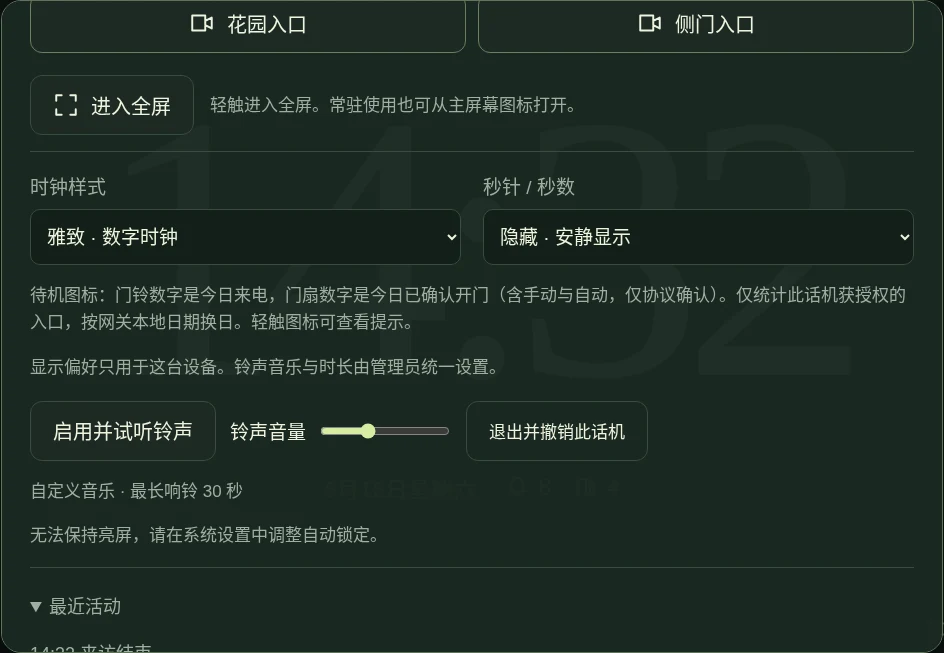
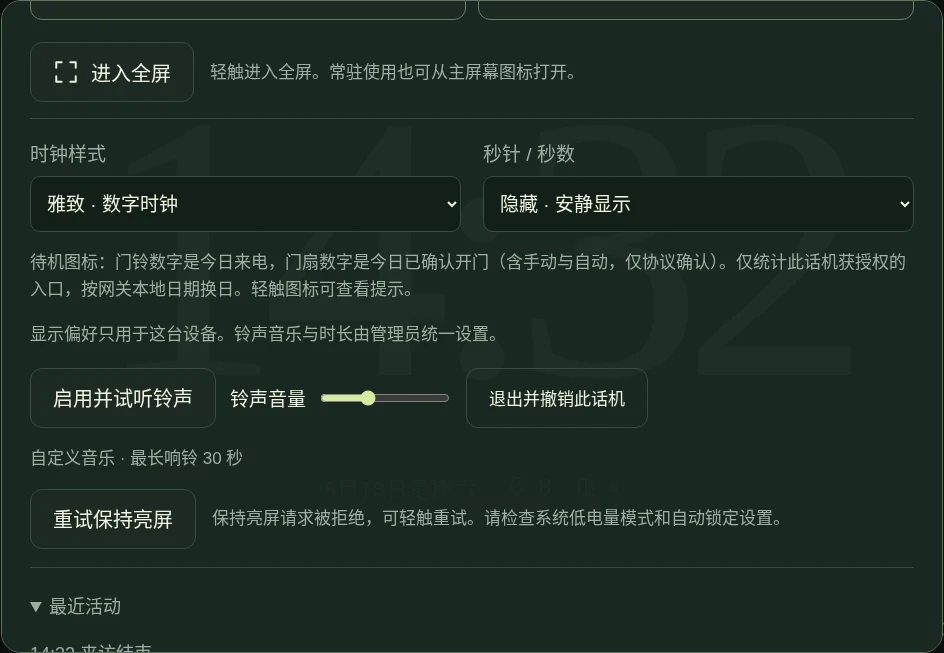
Fix independent foreground phone wake lock lifecycle

diff --git a/docs/demo/index.html b/docs/demo/index.html
@@ -2,6 +2,6 @@
 <html lang="zh-CN"><meta charset="utf-8"><meta name="viewport" content="width=device-width, initial-scale=1">
 <title>Fermax Lynx · 界面图集</title><style>
 :root{color-scheme:dark;font-family:system-ui,sans-serif;background:#101d1c;color:#eceee6}*{box-sizing:border-box}body{margin:0}header{padding:28px 32px;border-bottom:1px solid #42534d}h1{font-size:32px;margin:0 0 12px}p{line-height:1.65;color:#b5c2b9}main{display:grid;grid-template-columns:280px minmax(0,1fr)}nav{padding:20px;display:grid;gap:8px;align-content:start;max-height:calc(100vh - 170px);overflow:auto;position:sticky;top:0}button{font:inherit;font-size:16px;text-align:left;color:inherit;border:1px solid #41514c;background:transparent;border-radius:8px;padding:12px;min-height:48px;cursor:pointer}button[aria-pressed=true]{background:#dbe9cd;color:#17231d}button:focus-visible,a:focus-visible{outline:3px solid #ebc777;outline-offset:3px}section{padding:24px;min-width:0}figure{margin:0}figure[hidden]{display:none}h2{margin:0;font-size:25px}img{display:block;max-width:100%;max-height:78vh;height:auto;width:auto;margin:20px auto;border:1px solid #41514c;border-radius:12px}a{color:#dbe9cd}@media(max-width:720px){main{display:block}nav{position:static;max-height:230px;grid-template-columns:repeat(2,minmax(0,1fr))}header,section{padding:20px}h1{font-size:27px}}
-</style><header><h1>Fermax Lynx · 界面图集</h1><p>这些 v0.6.2 预览由真实界面自动截图生成。住户、入口、视频与音频均为合成示例；Screenshots show version 0.6.2 using synthetic data.</p></header><main><nav aria-label="选择界面"><button type="button" data-index="0" aria-pressed="true">铃声提醒 · Sound attention</button><button type="button" data-index="1" aria-pressed="false">安静待机 · Quiet standby</button><button type="button" data-index="2" aria-pressed="false">连接异常 · Connection notice</button><button type="button" data-index="3" aria-pressed="false">今日活动 · Daily activity</button><button type="button" data-index="4" aria-pressed="false">待机统计 · Quiet activity</button><button type="button" data-index="5" aria-pressed="false">实体首页统计 · LCD daily activity</button><button type="button" data-index="6" aria-pressed="false">网关独立响铃 · Gateway sound</button><button type="button" data-index="7" aria-pressed="false">首选设备失联 · Missing output</button><button type="button" data-index="8" aria-pressed="false">实体屏幕设置 · LCD settings</button><button type="button" data-index="9" aria-pressed="false">实体屏幕声音 · LCD sound</button><button type="button" data-index="10" aria-pressed="false">实体输出选择 · LCD outputs</button><button type="button" data-index="11" aria-pressed="false">书页时钟 · Editorial</button><button type="button" data-index="12" aria-pressed="false">数字时钟 · Digital</button><button type="button" data-index="13" aria-pressed="false">模拟时钟 · Analog</button><button type="button" data-index="14" aria-pressed="false">电子管时钟 · Nixie</button><button type="button" data-index="15" aria-pressed="false">无秒显示 · Hidden seconds</button><button type="button" data-index="16" aria-pressed="false">话机授权 · Enrollment</button><button type="button" data-index="17" aria-pressed="false">话机偏好 · Preferences</button><button type="button" data-index="18" aria-pressed="false">最近活动 · Recent activity</button><button type="button" data-index="19" aria-pressed="false">入口预览 · Preview</button><button type="button" data-index="20" aria-pressed="false">来访画面 · Incoming visit</button><button type="button" data-index="21" aria-pressed="false">响铃结束 · Ring window ended</button><button type="button" data-index="22" aria-pressed="false">本次静音 · Muted visit</button><button type="button" data-index="23" aria-pressed="false">竖屏平板 · Portrait tablet</button><button type="button" data-index="24" aria-pressed="false">手机竖屏 · Narrow screen</button><button type="button" data-index="25" aria-pressed="false">手机横屏 · Short landscape</button><button type="button" data-index="26" aria-pressed="false">画面过期 · Stale frame</button><button type="button" data-index="27" aria-pressed="false">连接中断 · Offline</button><button type="button" data-index="28" aria-pressed="false">授权撤销 · Revoked</button><button type="button" data-index="29" aria-pressed="false">限时自动开门 · Timed policy</button><button type="button" data-index="30" aria-pressed="false">无时限自动开门 · Unlimited policy</button><button type="button" data-index="31" aria-pressed="false">管理页失联 · Unknown policy state</button><button type="button" data-index="32" aria-pressed="false">放大管理页 · 200% layout</button><button type="button" data-index="33" aria-pressed="false">设置导航 · Settings navigation</button><button type="button" data-index="34" aria-pressed="false">16 首铃声 · Ringtone library</button><button type="button" data-index="35" aria-pressed="false">管理员登录 · Sign in</button><button type="button" data-index="36" aria-pressed="false">管理首页 · Dashboard</button><button type="button" data-index="37" aria-pressed="false">内置铃声 · Built-in melodies</button><button type="button" data-index="38" aria-pressed="false">自定义音乐 · Custom music</button><button type="button" data-index="39" aria-pressed="false">网关配置 · Configuration</button><button type="button" data-index="40" aria-pressed="false">密码设置 · Password</button><button type="button" data-index="41" aria-pressed="false">事件日志 · Journal</button><button type="button" data-index="42" aria-pressed="false">设备管理 · Devices</button></nav><section aria-live="polite"><figure id="view-0"><figcaption><h2>铃声提醒 · Sound attention</h2><p>待机只在需要处理时显示声音图标，轻触进入声音设置。</p></figcaption><a href="phone-quiet-sound.webp"><img src="phone-quiet-sound.webp" alt="铃声提醒 · Sound attention" loading="lazy"></a></figure><figure id="view-1" hidden><figcaption><h2>安静待机 · Quiet standby</h2><p>中央时钟与一行辅助信息，自动开门启用时留角落提示。</p></figcaption><a href="phone-quiet-auto.webp"><img src="phone-quiet-auto.webp" alt="安静待机 · Quiet standby" loading="lazy"></a></figure><figure id="view-2" hidden><figcaption><h2>连接异常 · Connection notice</h2><p>断线显示文字提示，统计不可用，旧自动状态不冒充实时。</p></figcaption><a href="phone-quiet-offline.webp"><img src="phone-quiet-offline.webp" alt="连接异常 · Connection notice" loading="lazy"></a></figure><figure id="view-3" hidden><figcaption><h2>今日活动 · Daily activity</h2><p>来电与协议确认开门，按网关本地日期汇总。</p></figcaption><a href="admin-statistics.webp"><img src="admin-statistics.webp" alt="今日活动 · Daily activity" loading="lazy"></a></figure><figure id="view-4" hidden><figcaption><h2>待机统计 · Quiet activity</h2><p>图标与数字，轻触或聚焦显示统计口径。</p></figcaption><a href="phone-statistics.webp"><img src="phone-statistics.webp" alt="待机统计 · Quiet activity" loading="lazy"></a></figure><figure id="view-5" hidden><figcaption><h2>实体首页统计 · LCD daily activity</h2><p>保持大按钮，简明显示今日来电与确认开门。</p></figcaption><a href="lcd-home.webp"><img src="lcd-home.webp" alt="实体首页统计 · LCD daily activity" loading="lazy"></a></figure><figure id="view-6" hidden><figcaption><h2>网关独立响铃 · Gateway sound</h2><p>独立开关、音量、输出选择与明确的测试声音。</p></figcaption><a href="admin-gateway-sound.webp"><img src="admin-gateway-sound.webp" alt="网关独立响铃 · Gateway sound" loading="lazy"></a></figure><figure id="view-7" hidden><figcaption><h2>首选设备失联 · Missing output</h2><p>保留首选偏好，显示设备状态并自动降级。</p></figcaption><a href="admin-gateway-no-device.webp"><img src="admin-gateway-no-device.webp" alt="首选设备失联 · Missing output" loading="lazy"></a></figure><figure id="view-8" hidden><figcaption><h2>实体屏幕设置 · LCD settings</h2><p>声音与自动开门分别进入，保留大触控按钮。</p></figcaption><a href="lcd-settings.webp"><img src="lcd-settings.webp" alt="实体屏幕设置 · LCD settings" loading="lazy"></a></figure><figure id="view-9" hidden><figcaption><h2>实体屏幕声音 · LCD sound</h2><p>本机开关、音量、实际输出及三秒试音。</p></figcaption><a href="lcd-sound.webp"><img src="lcd-sound.webp" alt="实体屏幕声音 · LCD sound" loading="lazy"></a></figure><figure id="view-10" hidden><figcaption><h2>实体输出选择 · LCD outputs</h2><p>大按钮分页选择自动或具体设备。</p></figcaption><a href="lcd-outputs.webp"><img src="lcd-outputs.webp" alt="实体输出选择 · LCD outputs" loading="lazy"></a></figure><figure id="view-11" hidden><figcaption><h2>书页时钟 · Editorial</h2><p>舒展的衬线数字与低对比度状态。</p></figcaption><a href="clock-editorial.webp"><img src="clock-editorial.webp" alt="书页时钟 · Editorial" loading="lazy"></a></figure><figure id="view-12" hidden><figcaption><h2>数字时钟 · Digital</h2><p>醒目的数字，适合远距离查看。</p></figcaption><a href="clock-digital.webp"><img src="clock-digital.webp" alt="数字时钟 · Digital" loading="lazy"></a></figure><figure id="view-13" hidden><figcaption><h2>模拟时钟 · Analog</h2><p>刻度与指针；秒针可隐藏、跳动或平滑移动。</p></figcaption><a href="clock-analog.webp"><img src="clock-analog.webp" alt="模拟时钟 · Analog" loading="lazy"></a></figure><figure id="view-14" hidden><figcaption><h2>电子管时钟 · Nixie</h2><p>由 CSS 绘制的暖色玻璃与发光数字。</p></figcaption><a href="clock-nixie.webp"><img src="clock-nixie.webp" alt="电子管时钟 · Nixie" loading="lazy"></a></figure><figure id="view-15" hidden><figcaption><h2>无秒显示 · Hidden seconds</h2><p>隐藏秒数，让空闲界面更安静。</p></figcaption><a href="clock-nixie-quiet.webp"><img src="clock-nixie-quiet.webp" alt="无秒显示 · Hidden seconds" loading="lazy"></a></figure><figure id="view-16" hidden><figcaption><h2>话机授权 · Enrollment</h2><p>管理员选择设备名称与入口范围。</p></figcaption><a href="phone-enrollment.webp"><img src="phone-enrollment.webp" alt="话机授权 · Enrollment" loading="lazy"></a></figure><figure id="view-17" hidden><figcaption><h2>话机偏好 · Preferences</h2><p>本机时钟、秒针、音量与入口预览。</p></figcaption><a href="phone-preferences.webp"><img src="phone-preferences.webp" alt="话机偏好 · Preferences" loading="lazy"></a></figure><figure id="view-18" hidden><figcaption><h2>最近活动 · Recent activity</h2><p>展开查看最近三项活动。</p></figcaption><a href="phone-recent.webp"><img src="phone-recent.webp" alt="最近活动 · Recent activity" loading="lazy"></a></figure><figure id="view-19" hidden><figcaption><h2>入口预览 · Preview</h2><p>完整保留 4:3 画面，操作浮在画面上。</p></figcaption><a href="phone-preview.webp"><img src="phone-preview.webp" alt="入口预览 · Preview" loading="lazy"></a></figure><figure id="view-20" hidden><figcaption><h2>来访画面 · Incoming visit</h2><p>紧凑标题与大触控按钮，音乐按设定时长循环。</p></figcaption><a href="phone-incoming.webp"><img src="phone-incoming.webp" alt="来访画面 · Incoming visit" loading="lazy"></a></figure><figure id="view-21" hidden><figcaption><h2>响铃结束 · Ring window ended</h2><p>音乐停止后仍可查看画面和操作。</p></figcaption><a href="phone-ring-ended.webp"><img src="phone-ring-ended.webp" alt="响铃结束 · Ring window ended" loading="lazy"></a></figure><figure id="view-22" hidden><figcaption><h2>本次静音 · Muted visit</h2><p>只静音当前来访。</p></figcaption><a href="phone-muted.webp"><img src="phone-muted.webp" alt="本次静音 · Muted visit" loading="lazy"></a></figure><figure id="view-23" hidden><figcaption><h2>竖屏平板 · Portrait tablet</h2><p>完整画面居中，保留必要留白。</p></figcaption><a href="phone-portrait.webp"><img src="phone-portrait.webp" alt="竖屏平板 · Portrait tablet" loading="lazy"></a></figure><figure id="view-24" hidden><figcaption><h2>手机竖屏 · Narrow screen</h2><p>较窄屏幕仍保留完整画面与操作。</p></figcaption><a href="phone-mobile.webp"><img src="phone-mobile.webp" alt="手机竖屏 · Narrow screen" loading="lazy"></a></figure><figure id="view-25" hidden><figcaption><h2>手机横屏 · Short landscape</h2><p>短横屏使用紧凑的覆盖控件。</p></figcaption><a href="phone-wide.webp"><img src="phone-wide.webp" alt="手机横屏 · Short landscape" loading="lazy"></a></figure><figure id="view-26" hidden><figcaption><h2>画面过期 · Stale frame</h2><p>不把旧帧当成实时画面。</p></figcaption><a href="phone-stale-video.webp"><img src="phone-stale-video.webp" alt="画面过期 · Stale frame" loading="lazy"></a></figure><figure id="view-27" hidden><figcaption><h2>连接中断 · Offline</h2><p>状态清楚呈现，断线时禁用控制。</p></figcaption><a href="phone-offline.webp"><img src="phone-offline.webp" alt="连接中断 · Offline" loading="lazy"></a></figure><figure id="view-28" hidden><figcaption><h2>授权撤销 · Revoked</h2><p>撤销后退出话机，重新授权才能使用。</p></figcaption><a href="phone-revoked.webp"><img src="phone-revoked.webp" alt="授权撤销 · Revoked" loading="lazy"></a></figure><figure id="view-29" hidden><figcaption><h2>限时自动开门 · Timed policy</h2><p>已启用时仅显示状态、截止时间和停止按钮。</p></figcaption><a href="admin-auto-timed.webp"><img src="admin-auto-timed.webp" alt="限时自动开门 · Timed policy" loading="lazy"></a></figure><figure id="view-30" hidden><figcaption><h2>无时限自动开门 · Unlimited policy</h2><p>只提供停止操作，隐藏再次启用和时长选择。</p></figcaption><a href="admin-auto-unlimited.webp"><img src="admin-auto-unlimited.webp" alt="无时限自动开门 · Unlimited policy" loading="lazy"></a></figure><figure id="view-31" hidden><figcaption><h2>管理页失联 · Unknown policy state</h2><p>无法确认服务器状态时隐藏策略操作，恢复后重新读取。</p></figcaption><a href="admin-offline.webp"><img src="admin-offline.webp" alt="管理页失联 · Unknown policy state" loading="lazy"></a></figure><figure id="view-32" hidden><figcaption><h2>放大管理页 · 200% layout</h2><p>导航自然换行，入口按钮不重叠。</p></figcaption><a href="admin-zoom.webp"><img src="admin-zoom.webp" alt="放大管理页 · 200% layout" loading="lazy"></a></figure><figure id="view-33" hidden><figcaption><h2>设置导航 · Settings navigation</h2><p>铃声、话机设备、网关配置和密码按任务分区。</p></figcaption><a href="admin-settings.webp"><img src="admin-settings.webp" alt="设置导航 · Settings navigation" loading="lazy"></a></figure><figure id="view-34" hidden><figcaption><h2>16 首铃声 · Ringtone library</h2><p>点击选择并试听，保存后用于下一次来访。</p></figcaption><a href="admin-ringtone-library.webp"><img src="admin-ringtone-library.webp" alt="16 首铃声 · Ringtone library" loading="lazy"></a></figure><figure id="view-35" hidden><figcaption><h2>管理员登录 · Sign in</h2><p>独立的管理员登录入口。</p></figcaption><a href="admin-login.webp"><img src="admin-login.webp" alt="管理员登录 · Sign in" loading="lazy"></a></figure><figure id="view-36" hidden><figcaption><h2>管理首页 · Dashboard</h2><p>网关、入口、策略与活动概览。</p></figcaption><a href="admin-dashboard.webp"><img src="admin-dashboard.webp" alt="管理首页 · Dashboard" loading="lazy"></a></figure><figure id="view-37" hidden><figcaption><h2>内置铃声 · Built-in melodies</h2><p>管理员配置铃声及 15/30/45/60 秒时长。</p></figcaption><a href="admin-ringtone.webp"><img src="admin-ringtone.webp" alt="内置铃声 · Built-in melodies" loading="lazy"></a></figure><figure id="view-38" hidden><figcaption><h2>自定义音乐 · Custom music</h2><p>导入、试听并保存自己的音乐。</p></figcaption><a href="admin-custom-music.webp"><img src="admin-custom-music.webp" alt="自定义音乐 · Custom music" loading="lazy"></a></figure><figure id="view-39" hidden><figcaption><h2>网关配置 · Configuration</h2><p>身份、接口与入口配置；保存不改变系统网卡地址。</p></figcaption><a href="admin-network.webp"><img src="admin-network.webp" alt="网关配置 · Configuration" loading="lazy"></a></figure><figure id="view-40" hidden><figcaption><h2>密码设置 · Password</h2><p>修改管理员密码。</p></figcaption><a href="admin-password.webp"><img src="admin-password.webp" alt="密码设置 · Password" loading="lazy"></a></figure><figure id="view-41" hidden><figcaption><h2>事件日志 · Journal</h2><p>查询并导出网关活动记录。</p></figcaption><a href="admin-journal.webp"><img src="admin-journal.webp" alt="事件日志 · Journal" loading="lazy"></a></figure><figure id="view-42" hidden><figcaption><h2>设备管理 · Devices</h2><p>查看设备授权及其入口范围。</p></figcaption><a href="admin-devices.webp"><img src="admin-devices.webp" alt="设备管理 · Devices" loading="lazy"></a></figure></section></main><script>
+</style><header><h1>Fermax Lynx · 界面图集</h1><p>这些 v0.6.3 预览由真实界面自动截图生成。住户、入口、视频与音频均为合成示例；Screenshots show version 0.6.3 using synthetic data.</p></header><main><nav aria-label="选择界面"><button type="button" data-index="0" aria-pressed="true">铃声提醒 · Sound attention</button><button type="button" data-index="1" aria-pressed="false">安静待机 · Quiet standby</button><button type="button" data-index="2" aria-pressed="false">连接异常 · Connection notice</button><button type="button" data-index="3" aria-pressed="false">今日活动 · Daily activity</button><button type="button" data-index="4" aria-pressed="false">待机统计 · Quiet activity</button><button type="button" data-index="5" aria-pressed="false">实体首页统计 · LCD daily activity</button><button type="button" data-index="6" aria-pressed="false">网关独立响铃 · Gateway sound</button><button type="button" data-index="7" aria-pressed="false">首选设备失联 · Missing output</button><button type="button" data-index="8" aria-pressed="false">实体屏幕设置 · LCD settings</button><button type="button" data-index="9" aria-pressed="false">实体屏幕声音 · LCD sound</button><button type="button" data-index="10" aria-pressed="false">实体输出选择 · LCD outputs</button><button type="button" data-index="11" aria-pressed="false">书页时钟 · Editorial</button><button type="button" data-index="12" aria-pressed="false">数字时钟 · Digital</button><button type="button" data-index="13" aria-pressed="false">模拟时钟 · Analog</button><button type="button" data-index="14" aria-pressed="false">电子管时钟 · Nixie</button><button type="button" data-index="15" aria-pressed="false">无秒显示 · Hidden seconds</button><button type="button" data-index="16" aria-pressed="false">话机授权 · Enrollment</button><button type="button" data-index="17" aria-pressed="false">话机偏好 · Preferences</button><button type="button" data-index="18" aria-pressed="false">最近活动 · Recent activity</button><button type="button" data-index="19" aria-pressed="false">入口预览 · Preview</button><button type="button" data-index="20" aria-pressed="false">来访画面 · Incoming visit</button><button type="button" data-index="21" aria-pressed="false">响铃结束 · Ring window ended</button><button type="button" data-index="22" aria-pressed="false">本次静音 · Muted visit</button><button type="button" data-index="23" aria-pressed="false">竖屏平板 · Portrait tablet</button><button type="button" data-index="24" aria-pressed="false">手机竖屏 · Narrow screen</button><button type="button" data-index="25" aria-pressed="false">手机横屏 · Short landscape</button><button type="button" data-index="26" aria-pressed="false">画面过期 · Stale frame</button><button type="button" data-index="27" aria-pressed="false">连接中断 · Offline</button><button type="button" data-index="28" aria-pressed="false">授权撤销 · Revoked</button><button type="button" data-index="29" aria-pressed="false">限时自动开门 · Timed policy</button><button type="button" data-index="30" aria-pressed="false">无时限自动开门 · Unlimited policy</button><button type="button" data-index="31" aria-pressed="false">管理页失联 · Unknown policy state</button><button type="button" data-index="32" aria-pressed="false">放大管理页 · 200% layout</button><button type="button" data-index="33" aria-pressed="false">设置导航 · Settings navigation</button><button type="button" data-index="34" aria-pressed="false">16 首铃声 · Ringtone library</button><button type="button" data-index="35" aria-pressed="false">管理员登录 · Sign in</button><button type="button" data-index="36" aria-pressed="false">管理首页 · Dashboard</button><button type="button" data-index="37" aria-pressed="false">内置铃声 · Built-in melodies</button><button type="button" data-index="38" aria-pressed="false">自定义音乐 · Custom music</button><button type="button" data-index="39" aria-pressed="false">网关配置 · Configuration</button><button type="button" data-index="40" aria-pressed="false">密码设置 · Password</button><button type="button" data-index="41" aria-pressed="false">事件日志 · Journal</button><button type="button" data-index="42" aria-pressed="false">设备管理 · Devices</button></nav><section aria-live="polite"><figure id="view-0"><figcaption><h2>铃声提醒 · Sound attention</h2><p>待机只在需要处理时显示声音图标，轻触进入声音设置。</p></figcaption><a href="phone-quiet-sound.webp"><img src="phone-quiet-sound.webp" alt="铃声提醒 · Sound attention" loading="lazy"></a></figure><figure id="view-1" hidden><figcaption><h2>安静待机 · Quiet standby</h2><p>中央时钟与一行辅助信息，自动开门启用时留角落提示。</p></figcaption><a href="phone-quiet-auto.webp"><img src="phone-quiet-auto.webp" alt="安静待机 · Quiet standby" loading="lazy"></a></figure><figure id="view-2" hidden><figcaption><h2>连接异常 · Connection notice</h2><p>断线显示文字提示，统计不可用，旧自动状态不冒充实时。</p></figcaption><a href="phone-quiet-offline.webp"><img src="phone-quiet-offline.webp" alt="连接异常 · Connection notice" loading="lazy"></a></figure><figure id="view-3" hidden><figcaption><h2>今日活动 · Daily activity</h2><p>来电与协议确认开门，按网关本地日期汇总。</p></figcaption><a href="admin-statistics.webp"><img src="admin-statistics.webp" alt="今日活动 · Daily activity" loading="lazy"></a></figure><figure id="view-4" hidden><figcaption><h2>待机统计 · Quiet activity</h2><p>图标与数字，轻触或聚焦显示统计口径。</p></figcaption><a href="phone-statistics.webp"><img src="phone-statistics.webp" alt="待机统计 · Quiet activity" loading="lazy"></a></figure><figure id="view-5" hidden><figcaption><h2>实体首页统计 · LCD daily activity</h2><p>保持大按钮，简明显示今日来电与确认开门。</p></figcaption><a href="lcd-home.webp"><img src="lcd-home.webp" alt="实体首页统计 · LCD daily activity" loading="lazy"></a></figure><figure id="view-6" hidden><figcaption><h2>网关独立响铃 · Gateway sound</h2><p>独立开关、音量、输出选择与明确的测试声音。</p></figcaption><a href="admin-gateway-sound.webp"><img src="admin-gateway-sound.webp" alt="网关独立响铃 · Gateway sound" loading="lazy"></a></figure><figure id="view-7" hidden><figcaption><h2>首选设备失联 · Missing output</h2><p>保留首选偏好，显示设备状态并自动降级。</p></figcaption><a href="admin-gateway-no-device.webp"><img src="admin-gateway-no-device.webp" alt="首选设备失联 · Missing output" loading="lazy"></a></figure><figure id="view-8" hidden><figcaption><h2>实体屏幕设置 · LCD settings</h2><p>声音与自动开门分别进入，保留大触控按钮。</p></figcaption><a href="lcd-settings.webp"><img src="lcd-settings.webp" alt="实体屏幕设置 · LCD settings" loading="lazy"></a></figure><figure id="view-9" hidden><figcaption><h2>实体屏幕声音 · LCD sound</h2><p>本机开关、音量、实际输出及三秒试音。</p></figcaption><a href="lcd-sound.webp"><img src="lcd-sound.webp" alt="实体屏幕声音 · LCD sound" loading="lazy"></a></figure><figure id="view-10" hidden><figcaption><h2>实体输出选择 · LCD outputs</h2><p>大按钮分页选择自动或具体设备。</p></figcaption><a href="lcd-outputs.webp"><img src="lcd-outputs.webp" alt="实体输出选择 · LCD outputs" loading="lazy"></a></figure><figure id="view-11" hidden><figcaption><h2>书页时钟 · Editorial</h2><p>舒展的衬线数字与低对比度状态。</p></figcaption><a href="clock-editorial.webp"><img src="clock-editorial.webp" alt="书页时钟 · Editorial" loading="lazy"></a></figure><figure id="view-12" hidden><figcaption><h2>数字时钟 · Digital</h2><p>醒目的数字，适合远距离查看。</p></figcaption><a href="clock-digital.webp"><img src="clock-digital.webp" alt="数字时钟 · Digital" loading="lazy"></a></figure><figure id="view-13" hidden><figcaption><h2>模拟时钟 · Analog</h2><p>刻度与指针；秒针可隐藏、跳动或平滑移动。</p></figcaption><a href="clock-analog.webp"><img src="clock-analog.webp" alt="模拟时钟 · Analog" loading="lazy"></a></figure><figure id="view-14" hidden><figcaption><h2>电子管时钟 · Nixie</h2><p>由 CSS 绘制的暖色玻璃与发光数字。</p></figcaption><a href="clock-nixie.webp"><img src="clock-nixie.webp" alt="电子管时钟 · Nixie" loading="lazy"></a></figure><figure id="view-15" hidden><figcaption><h2>无秒显示 · Hidden seconds</h2><p>隐藏秒数，让空闲界面更安静。</p></figcaption><a href="clock-nixie-quiet.webp"><img src="clock-nixie-quiet.webp" alt="无秒显示 · Hidden seconds" loading="lazy"></a></figure><figure id="view-16" hidden><figcaption><h2>话机授权 · Enrollment</h2><p>管理员选择设备名称与入口范围。</p></figcaption><a href="phone-enrollment.webp"><img src="phone-enrollment.webp" alt="话机授权 · Enrollment" loading="lazy"></a></figure><figure id="view-17" hidden><figcaption><h2>话机偏好 · Preferences</h2><p>本机时钟、秒针、音量与入口预览。</p></figcaption><a href="phone-preferences.webp"><img src="phone-preferences.webp" alt="话机偏好 · Preferences" loading="lazy"></a></figure><figure id="view-18" hidden><figcaption><h2>最近活动 · Recent activity</h2><p>展开查看最近三项活动。</p></figcaption><a href="phone-recent.webp"><img src="phone-recent.webp" alt="最近活动 · Recent activity" loading="lazy"></a></figure><figure id="view-19" hidden><figcaption><h2>入口预览 · Preview</h2><p>完整保留 4:3 画面，操作浮在画面上。</p></figcaption><a href="phone-preview.webp"><img src="phone-preview.webp" alt="入口预览 · Preview" loading="lazy"></a></figure><figure id="view-20" hidden><figcaption><h2>来访画面 · Incoming visit</h2><p>紧凑标题与大触控按钮，音乐按设定时长循环。</p></figcaption><a href="phone-incoming.webp"><img src="phone-incoming.webp" alt="来访画面 · Incoming visit" loading="lazy"></a></figure><figure id="view-21" hidden><figcaption><h2>响铃结束 · Ring window ended</h2><p>音乐停止后仍可查看画面和操作。</p></figcaption><a href="phone-ring-ended.webp"><img src="phone-ring-ended.webp" alt="响铃结束 · Ring window ended" loading="lazy"></a></figure><figure id="view-22" hidden><figcaption><h2>本次静音 · Muted visit</h2><p>只静音当前来访。</p></figcaption><a href="phone-muted.webp"><img src="phone-muted.webp" alt="本次静音 · Muted visit" loading="lazy"></a></figure><figure id="view-23" hidden><figcaption><h2>竖屏平板 · Portrait tablet</h2><p>完整画面居中，保留必要留白。</p></figcaption><a href="phone-portrait.webp"><img src="phone-portrait.webp" alt="竖屏平板 · Portrait tablet" loading="lazy"></a></figure><figure id="view-24" hidden><figcaption><h2>手机竖屏 · Narrow screen</h2><p>较窄屏幕仍保留完整画面与操作。</p></figcaption><a href="phone-mobile.webp"><img src="phone-mobile.webp" alt="手机竖屏 · Narrow screen" loading="lazy"></a></figure><figure id="view-25" hidden><figcaption><h2>手机横屏 · Short landscape</h2><p>短横屏使用紧凑的覆盖控件。</p></figcaption><a href="phone-wide.webp"><img src="phone-wide.webp" alt="手机横屏 · Short landscape" loading="lazy"></a></figure><figure id="view-26" hidden><figcaption><h2>画面过期 · Stale frame</h2><p>不把旧帧当成实时画面。</p></figcaption><a href="phone-stale-video.webp"><img src="phone-stale-video.webp" alt="画面过期 · Stale frame" loading="lazy"></a></figure><figure id="view-27" hidden><figcaption><h2>连接中断 · Offline</h2><p>状态清楚呈现，断线时禁用控制。</p></figcaption><a href="phone-offline.webp"><img src="phone-offline.webp" alt="连接中断 · Offline" loading="lazy"></a></figure><figure id="view-28" hidden><figcaption><h2>授权撤销 · Revoked</h2><p>撤销后退出话机，重新授权才能使用。</p></figcaption><a href="phone-revoked.webp"><img src="phone-revoked.webp" alt="授权撤销 · Revoked" loading="lazy"></a></figure><figure id="view-29" hidden><figcaption><h2>限时自动开门 · Timed policy</h2><p>已启用时仅显示状态、截止时间和停止按钮。</p></figcaption><a href="admin-auto-timed.webp"><img src="admin-auto-timed.webp" alt="限时自动开门 · Timed policy" loading="lazy"></a></figure><figure id="view-30" hidden><figcaption><h2>无时限自动开门 · Unlimited policy</h2><p>只提供停止操作，隐藏再次启用和时长选择。</p></figcaption><a href="admin-auto-unlimited.webp"><img src="admin-auto-unlimited.webp" alt="无时限自动开门 · Unlimited policy" loading="lazy"></a></figure><figure id="view-31" hidden><figcaption><h2>管理页失联 · Unknown policy state</h2><p>无法确认服务器状态时隐藏策略操作，恢复后重新读取。</p></figcaption><a href="admin-offline.webp"><img src="admin-offline.webp" alt="管理页失联 · Unknown policy state" loading="lazy"></a></figure><figure id="view-32" hidden><figcaption><h2>放大管理页 · 200% layout</h2><p>导航自然换行，入口按钮不重叠。</p></figcaption><a href="admin-zoom.webp"><img src="admin-zoom.webp" alt="放大管理页 · 200% layout" loading="lazy"></a></figure><figure id="view-33" hidden><figcaption><h2>设置导航 · Settings navigation</h2><p>铃声、话机设备、网关配置和密码按任务分区。</p></figcaption><a href="admin-settings.webp"><img src="admin-settings.webp" alt="设置导航 · Settings navigation" loading="lazy"></a></figure><figure id="view-34" hidden><figcaption><h2>16 首铃声 · Ringtone library</h2><p>点击选择并试听，保存后用于下一次来访。</p></figcaption><a href="admin-ringtone-library.webp"><img src="admin-ringtone-library.webp" alt="16 首铃声 · Ringtone library" loading="lazy"></a></figure><figure id="view-35" hidden><figcaption><h2>管理员登录 · Sign in</h2><p>独立的管理员登录入口。</p></figcaption><a href="admin-login.webp"><img src="admin-login.webp" alt="管理员登录 · Sign in" loading="lazy"></a></figure><figure id="view-36" hidden><figcaption><h2>管理首页 · Dashboard</h2><p>网关、入口、策略与活动概览。</p></figcaption><a href="admin-dashboard.webp"><img src="admin-dashboard.webp" alt="管理首页 · Dashboard" loading="lazy"></a></figure><figure id="view-37" hidden><figcaption><h2>内置铃声 · Built-in melodies</h2><p>管理员配置铃声及 15/30/45/60 秒时长。</p></figcaption><a href="admin-ringtone.webp"><img src="admin-ringtone.webp" alt="内置铃声 · Built-in melodies" loading="lazy"></a></figure><figure id="view-38" hidden><figcaption><h2>自定义音乐 · Custom music</h2><p>导入、试听并保存自己的音乐。</p></figcaption><a href="admin-custom-music.webp"><img src="admin-custom-music.webp" alt="自定义音乐 · Custom music" loading="lazy"></a></figure><figure id="view-39" hidden><figcaption><h2>网关配置 · Configuration</h2><p>身份、接口与入口配置；保存不改变系统网卡地址。</p></figcaption><a href="admin-network.webp"><img src="admin-network.webp" alt="网关配置 · Configuration" loading="lazy"></a></figure><figure id="view-40" hidden><figcaption><h2>密码设置 · Password</h2><p>修改管理员密码。</p></figcaption><a href="admin-password.webp"><img src="admin-password.webp" alt="密码设置 · Password" loading="lazy"></a></figure><figure id="view-41" hidden><figcaption><h2>事件日志 · Journal</h2><p>查询并导出网关活动记录。</p></figcaption><a href="admin-journal.webp"><img src="admin-journal.webp" alt="事件日志 · Journal" loading="lazy"></a></figure><figure id="view-42" hidden><figcaption><h2>设备管理 · Devices</h2><p>查看设备授权及其入口范围。</p></figcaption><a href="admin-devices.webp"><img src="admin-devices.webp" alt="设备管理 · Devices" loading="lazy"></a></figure></section></main><script>
 document.querySelectorAll('nav button').forEach(button=>button.addEventListener('click',()=>{document.querySelectorAll('nav button').forEach(item=>item.setAttribute('aria-pressed',String(item===button)));document.querySelectorAll('figure').forEach((figure,index)=>figure.hidden=String(index)!==button.dataset.index)}));
 </script></html>

diff --git a/fermax/web/phone.js b/fermax/web/phone.js
@@ -11,6 +11,7 @@
   let mutedCall = null, currentCall = null, pending = null, wakeLock = null;
   let ringPlan = null, ringStartedFor = null, sweepFrame = null, lastSweep = 0, messageTimer;
   let soundFailed = false;
+  let wakePending=false, wakeGeneration=0, wakeBlocked=false, wakeWanted=true, pageLeaving=false;
   const ringNames = Object.assign({custom:'自定义音乐'},Object.fromEntries(window.LynxRingtones.map(track=>[track.id,track.name])));
   const eventNames = {incoming:'收到来访', outgoing:'查看门口机', call_ended:'来访结束',
     open_manual:'门口机确认开门', open_auto:'自动开门已确认', open_unknown:'开门结果未知',
@@ -185,10 +186,10 @@
       if (outcome) { message(eventNames[outcome.kind]); pending = null; }
     }
     if (state.call === 'busy') message('另一个未授权门口机的会话正在进行，请稍候。');
-    buttons(); updateClock(); ring();
+    buttons(); updateClock(); ring(); keepAwake();
   }
   async function setup(text) {
-    stopped = true; ++generation; if (stream) stream.abort();
+    stopped = true; releaseWake('话机已退出，保持亮屏已释放。'); ++generation; if (stream) stream.abort();
     clearTimeout(retryTimer); clearTimeout(renewTimer); offline('需要重新授权');
     hideControls(false); $('#phone').hidden = true; $('#setup').hidden = false; document.body.classList.remove('phone-ready'); message(text);
     $('#enrollForm').hidden = true;
@@ -309,13 +310,47 @@
       sound.play({ringtone:'chime'},ringRemaining(),volume).catch(() => { if (!online || !state || state.call_id !== call || mutedCall === call || ringRemaining() <= 0) return; soundFailed=true; attention(); message('铃声无法播放，请轻触启用并检查设备音量。'); });
     });
   }
-  async function keepAwake() {
-    if (!navigator.wakeLock || !window.isSecureContext) return;
-    try { if (wakeLock && !wakeLock.released) return; wakeLock = await navigator.wakeLock.request('screen');
-      $('#wakeHint').textContent = '已请求保持亮屏。切入后台或锁屏仍可能中断话机。';
-      wakeLock.addEventListener('release', () => { $('#wakeHint').textContent = '保持亮屏已释放，请检查系统自动锁定设置。'; });
-    } catch (_) { $('#wakeHint').textContent = '无法保持亮屏，请在系统设置中调整自动锁定。'; }
+  function wakeEligible(){return wakeWanted && !pageLeaving && !stopped && state && !$('#phone').hidden && !document.hidden;}
+  function wakeStatus(text){
+    if($('#wakeHint').textContent!==text)$('#wakeHint').textContent=text;
+    const supported=window.isSecureContext && navigator.wakeLock && typeof navigator.wakeLock.request==='function';
+    const button=$('#wakeButton');button.hidden=!supported;
+    const label=!wakeWanted?'启用保持亮屏':wakeLock || wakePending?'停止保持亮屏':'重试保持亮屏';
+    if(button.textContent!==label)button.textContent=label;
+    button.setAttribute('aria-pressed',String(!!wakeLock && !wakeLock.released));
   }
+  function releaseWake(text){
+    ++wakeGeneration;wakeBlocked=false;
+    const old=wakeLock;wakeLock=null;
+    if(old)Promise.resolve(old.release()).catch(()=>{});
+    wakeStatus(text);
+  }
+  async function keepAwake() {
+    if(!wakeEligible())return;
+    if(!window.isSecureContext){wakeStatus('当前为非安全连接，网页不能阻止自动锁屏。请使用受信任的 HTTPS；或在 iPad 设置 → 显示与亮度 → 自动锁定中选择“永不”（如可选）。');return;}
+    if(!navigator.wakeLock || typeof navigator.wakeLock.request!=='function'){wakeStatus('此浏览器不支持保持亮屏。请更新系统，或在系统设置中将自动锁定设为“永不”（如可选）。');return;}
+    if(wakeLock && !wakeLock.released || wakePending || wakeBlocked)return;
+    wakePending=true;const token=wakeGeneration;wakeStatus('正在请求保持亮屏…');
+    try{
+      const lock=await navigator.wakeLock.request('screen');
+      if(token!==wakeGeneration || !wakeEligible()){await lock.release();return;}
+      wakeLock=lock;
+      const released=()=>{if(wakeLock!==lock)return;wakeLock=null;wakeBlocked=true;wakeStatus('系统已释放保持亮屏，可轻触重试。请检查低电量模式和自动锁定设置；后台或锁屏不保证响铃。');};
+      lock.addEventListener('release',released);
+      if(lock.released)released();
+      else wakeStatus('已保持亮屏 · 仅当前话机在前台时有效。切入后台或手动锁屏仍会中断。');
+    }catch(_){if(token===wakeGeneration && wakeEligible()){wakeBlocked=true;wakeStatus('保持亮屏请求被拒绝，可轻触重试。请检查系统低电量模式和自动锁定设置。');}}
+    finally{
+      wakePending=false;
+      // A hidden-page request may resolve after returning; release it before replacing it.
+      if(token!==wakeGeneration && wakeEligible())keepAwake();
+      else wakeStatus($('#wakeHint').textContent);
+    }
+  }
+  $('#wakeButton').addEventListener('click',()=>{
+    if(wakeWanted && (wakeLock || wakePending)){wakeWanted=false;releaseWake('已停止保持亮屏，将遵循系统自动锁定设置。');}
+    else{wakeWanted=true;wakeBlocked=false;keepAwake();}
+  });
   const standaloneQuery=matchMedia('(display-mode: standalone)');
   const homeScreenHint='iPad / iPhone：在 Safari 的分享菜单选择“添加到主屏幕”，再从图标打开。独立窗口可能需要重新授权话机。';
   function fullscreenElement(){return document.fullscreenElement || document.webkitFullscreenElement;}
@@ -360,7 +395,7 @@
       await sound.enable(); soundFailed=false; attention();
       if (state && state.direction === 'incoming' && ringRemaining() > 0 && mutedCall !== state.call_id) { ringStartedFor = null; ring(); }
       else await sound.play(state && state.phone_preferences || {ringtone:'chime'},3,Number($('#volume').value)/100,'preview');
-      message('正在试听，请确认设备音量。',true); await keepAwake();
+      message('正在试听，请确认设备音量。',true);
     } catch (_) { soundFailed=true; attention(); status('#soundStatus','bell','♪ 铃声被阻止',soundFailed || !sound.enabled || !!mutedCall || !Number($('#volume').value)); message('浏览器未允许铃声或音乐不可用，请再次轻触启用并检查静音设置。'); }
   });
   $('#clockStyle').addEventListener('change',event => { clock.value.style = event.target.value; clock.save(); updateClock(); });
@@ -403,14 +438,14 @@
     try { await request('/v1/phone/session/logout', {}); await setup('此话机授权已撤销。'); }
     catch (error) { message('未能撤销设备，请恢复连接后重试：'+error.message); }
   });
-  function resume() { if (!document.hidden && !stopped) { offline('正在恢复连接'); reconnect(); if (sound.enabled) keepAwake(); } }
+  function resume() { if (!document.hidden && !stopped) { offline('正在恢复连接'); reconnect(); wakeBlocked=false; keepAwake(); } }
   document.addEventListener('visibilitychange', () => {
-    if (document.hidden) { ++generation; if (stream) stream.abort(); clearTimeout(retryTimer); clearTimeout(renewTimer); offline('页面已暂停'); }
+    if (document.hidden) { releaseWake('页面已暂停，返回前台后重新申请保持亮屏。'); ++generation; if (stream) stream.abort(); clearTimeout(retryTimer); clearTimeout(renewTimer); offline('页面已暂停'); }
     else resume();
   });
-  window.addEventListener('pageshow', resume); window.addEventListener('online', resume);
+  window.addEventListener('pageshow', () => {pageLeaving=false;resume();}); window.addEventListener('online', resume);
   window.addEventListener('offline', () => { ++generation; if (stream) stream.abort(); offline('网络已断开'); });
-  window.addEventListener('pagehide', () => { ++generation; if (stream) stream.abort(); clearTimeout(retryTimer); clearTimeout(renewTimer); sound.stop(); clearPicture(); });
+  window.addEventListener('pagehide', () => { pageLeaving=true;releaseWake('页面已离开，保持亮屏已释放。'); ++generation; if (stream) stream.abort(); clearTimeout(retryTimer); clearTimeout(renewTimer); sound.stop(); clearPicture(); });
   setInterval(() => {
     updateClock(); ring();
     if (online && performance.now()-lastMessage > 45000) { offline('心跳已超时'); reconnect(); }

diff --git a/fermax/web/phone.html b/fermax/web/phone.html
@@ -52,7 +52,7 @@
         <div class="display-preferences"><label>时钟样式<select id="clockStyle"><option value="editorial">雅致 · 数字时钟</option><option value="digital">清晰 · 电子时钟</option><option value="analog">经典 · 模拟表盘</option><option value="nixie">暖光 · 电子管</option></select></label><label>秒针 / 秒数<select id="secondsMode"><option value="hidden">隐藏 · 安静显示</option><option value="step">显示 · 每秒跳动</option><option value="sweep">显示 · 表盘平滑扫秒</option></select></label></div>
         <p class="preference-note">待机图标：门铃数字是今日来电，门扇数字是今日已确认开门（含手动与自动，仅协议确认）。仅统计此话机获授权的入口，按网关本地日期换日。轻触图标可查看提示。</p><p class="preference-note">显示偏好只用于这台设备。铃声音乐与时长由管理员统一设置。</p>
         <div class="preferences"><button id="enableSound">启用并试听铃声</button><label>铃声音量<input id="volume" type="range" min="0" max="100" value="35"></label><button id="logout">退出并撤销此话机</button></div>
-        <p id="ringSetting" class="preference-note"></p><p id="wakeHint">前台常驻使用。请在系统设置中调整自动锁定；后台与锁屏不会保证响铃。</p>
+        <p id="ringSetting" class="preference-note"></p><div class="screen-preferences"><button id="wakeButton" aria-describedby="wakeHint" hidden>启用保持亮屏</button><p id="wakeHint" role="status">进入话机后检查保持亮屏支持。后台与锁屏不会保证响铃。</p></div>
         <details class="recent"><summary>最近活动</summary><ol id="recent"></ol></details>
       </section>
 

diff --git a/tools/build_demo_gallery.py b/tools/build_demo_gallery.py
@@ -64,8 +64,8 @@ def main():
     for item in images.values():
         if hashlib.sha256((folder/item['file']).read_bytes()).hexdigest() != item['sha256']:
             raise SystemExit('Image hash mismatch: '+item['file'])
-    intro = ('这些 v0.6.2 预览由真实界面自动截图生成。住户、入口、视频与音频均为合成示例；'
-             'Screenshots show version 0.6.2 using synthetic data.')
+    intro = ('这些 v0.6.3 预览由真实界面自动截图生成。住户、入口、视频与音频均为合成示例；'
+             'Screenshots show version 0.6.3 using synthetic data.')
     markdown = ['# 界面图集 · Interface gallery', intro,
                 '[中文手册](user-guide.zh-CN.md) · [English guide](user-guide.md) · [离线交互图集](demo/index.html)',
                 '下载仓库后在浏览器打开 `docs/demo/index.html` 可切换预览，打开 [sound.html](demo/sound.html) 可离线试听 16 首铃声。GitHub 页面可直接浏览以下全部截图。']

diff --git a/docs/phone.md b/docs/phone.md
@@ -83,8 +83,8 @@ Video still uses JPEG snapshots; this is not a new streaming media pipeline. Sta
 frames are indicated, and old images removed on disconnect/call changes. The clock
 follows gateway time/UTC offset and marks unsynchronized or offline time.
 
-Dark idle mode dims page content, not backlight. Wake Lock is requested only when
-supported in a secure context; otherwise use system auto-lock settings. Background
+Dark idle mode dims page content, not backlight. Wake Lock is requested independently of sound for an enrolled foreground phone
+when supported in a secure context; otherwise use system auto-lock settings. Background
 or locked-screen ringing is not promised. No microphone is accessed.
 Platform references: [SSE framing/connection limits](https://developer.mozilla.org/en-US/docs/Web/API/Server-sent_events/Using_server-sent_events),
 [Wake Lock requirements](https://developer.mozilla.org/en-US/docs/Web/API/Screen_Wake_Lock_API).
@@ -170,3 +170,13 @@ For iPad/iPhone: Safari **Share → Add to Home Screen**, then launch the new ic
 Sources: [Safari 16.4](https://webkit.org/blog/13966/webkit-features-in-safari-16-4/), [Fullscreen user activation](https://fullscreen.spec.whatwg.org/), [Apple standalone configuration](https://developer.apple.com/library/archive/documentation/AppleApplications/Reference/SafariWebContent/ConfiguringWebApplications/ConfiguringWebApplications.html).
 
 `PYTHON=python3 node tests/phone_screen.cjs` checks synthetic standard/legacy capability, rejected requests, missing APIs, external exit, standalone state, user gestures and tablet/phone clock bounds. Browser API mocks validate handling, not physical iPad support.
+
+## Screen wake lock and auto-lock
+
+An enrolled foreground phone requests a screen wake lock independently of sound or a ringtone preview. The controls panel reports the actual state and offers stop/retry. Hiding, leaving or signing out releases the lock; returning to the foreground re-acquires it. System release or rejection does not create an automatic retry loop.
+
+**Ordinary LAN HTTP cannot use the standard API.** A trusted HTTPS connection and browser support are required; bypassing a certificate warning is not equivalent to trust. Safari 16.4 introduced Screen Wake Lock, and Home Screen web app support was fixed in 18.4. Fullscreen and Home Screen installation do not themselves prevent auto-lock. Battery or system policies may still deny a request.
+
+Unsupported/insecure pages display the reason instead of claiming success. On iPad, use Settings → Display & Brightness → Auto-Lock → Never, if available. A website cannot change that system setting. Background or manually locked-screen ringing remains unsupported.
+
+Sources: [Safari 16.4](https://webkit.org/blog/13966/webkit-features-in-safari-16-4/), [Safari 18.4](https://webkit.org/blog/16574/webkit-features-in-safari-18-4/), [Wake Lock specification](https://www.w3.org/TR/screen-wake-lock/).

diff --git a/docs/user-guide.md b/docs/user-guide.md
@@ -187,3 +187,13 @@ The page detects the standard API and the older WebKit-prefixed API. iPadOS 16.4
 For iPad/iPhone: Safari **Share → Add to Home Screen**, then launch the new icon. Apple standalone metadata enables an app-like window without the usual Safari toolbars. A Home Screen window may require separate administrator login and phone enrollment. Standalone mode is distinct from Fullscreen API and does not prevent auto-lock or guarantee background ringing.
 
 Sources: [Safari 16.4](https://webkit.org/blog/13966/webkit-features-in-safari-16-4/), [Fullscreen user activation](https://fullscreen.spec.whatwg.org/), [Apple standalone configuration](https://developer.apple.com/library/archive/documentation/AppleApplications/Reference/SafariWebContent/ConfiguringWebApplications/ConfiguringWebApplications.html).
+
+## Screen wake lock and auto-lock
+
+An enrolled foreground phone requests a screen wake lock independently of sound or a ringtone preview. The controls panel reports the actual state and offers stop/retry. Hiding, leaving or signing out releases the lock; returning to the foreground re-acquires it. System release or rejection does not create an automatic retry loop.
+
+**Ordinary LAN HTTP cannot use the standard API.** A trusted HTTPS connection and browser support are required; bypassing a certificate warning is not equivalent to trust. Safari 16.4 introduced Screen Wake Lock, and Home Screen web app support was fixed in 18.4. Fullscreen and Home Screen installation do not themselves prevent auto-lock. Battery or system policies may still deny a request.
+
+Unsupported/insecure pages display the reason instead of claiming success. On iPad, use Settings → Display & Brightness → Auto-Lock → Never, if available. A website cannot change that system setting. Background or manually locked-screen ringing remains unsupported.
+
+Sources: [Safari 16.4](https://webkit.org/blog/13966/webkit-features-in-safari-16-4/), [Safari 18.4](https://webkit.org/blog/16574/webkit-features-in-safari-18-4/), [Wake Lock specification](https://www.w3.org/TR/screen-wake-lock/).

diff --git a/docs/user-guide.zh-CN.md b/docs/user-guide.zh-CN.md
@@ -182,3 +182,13 @@ Safari 的支持随系统版本而异：iPadOS 16.4 起提供标准 Fullscreen A
 常驻 iPad / iPhone 推荐：Safari 分享 → 添加到主屏幕 → 从新图标打开。页面声明 Apple 独立窗口模式，可减少地址栏和工具栏占用。主屏幕窗口可能不共享原 Safari 的设备会话，必要时在该窗口重新登录管理员并授权话机。独立窗口不等于防锁屏，仍需调整系统自动锁定；后台响铃不保证。
 
 参考：[WebKit Safari 16.4](https://webkit.org/blog/13966/webkit-features-in-safari-16-4/)、[Apple 独立窗口说明](https://developer.apple.com/library/archive/documentation/AppleApplications/Reference/SafariWebContent/ConfiguringWebApplications/ConfiguringWebApplications.html)。
+
+## 保持亮屏与 iPad 自动锁定
+
+进入已授权话机后，前台页面独立申请保持亮屏，不需要启用或试听铃声。操作面板显示实际状态，可停止或重试；隐藏、离开或退出话机时释放，返回前台重新申请。系统释放或拒绝后不会不断重试。
+
+**局域网普通 HTTP 地址不能使用标准保持亮屏接口。** 需要受浏览器信任的 HTTPS 和支持该接口的系统；忽略证书警告不等于建立可信连接。Safari 16.4 引入该接口，主屏幕 Web App 的支持问题在18.4修复。全屏、添加到主屏幕与保持亮屏是不同功能；低电量或系统策略仍可能拒绝申请。
+
+不满足条件时，页面明确说明原因。可在 iPad **设置 → 显示与亮度 → 自动锁定 → 永不**（如可选）调整；网页不能替你修改系统设置。后台或手动锁屏仍不保证响铃。
+
+参考：[Safari 16.4](https://webkit.org/blog/13966/webkit-features-in-safari-16-4/)、[Safari 18.4](https://webkit.org/blog/16574/webkit-features-in-safari-18-4/)、[Wake Lock规范](https://www.w3.org/TR/screen-wake-lock/)。

diff --git a/CHANGELOG.md b/CHANGELOG.md
@@ -1,5 +1,11 @@
 # Changelog
 
+## 0.6.3
+
+- Request foreground phone screen wake lock independently of sound, with stop/retry and accurate support/state feedback.
+- Release on hiding/leaving/sign-out and recover on return, handling late requests without retry loops.
+- Explain trusted HTTPS and Safari/Home Screen requirements; HTTP deployments still require system auto-lock settings.
+
 ## 0.6.2
 
 - Enlarge all four standby clocks to use tablet width and height, with extra space when seconds are hidden.

diff --git a/docs/demo-gallery.md b/docs/demo-gallery.md
@@ -1,6 +1,6 @@
 # 界面图集 · Interface gallery
 
-这些 v0.6.2 预览由真实界面自动截图生成。住户、入口、视频与音频均为合成示例；Screenshots show version 0.6.2 using synthetic data.
+这些 v0.6.3 预览由真实界面自动截图生成。住户、入口、视频与音频均为合成示例；Screenshots show version 0.6.3 using synthetic data.
 
 [中文手册](user-guide.zh-CN.md) · [English guide](user-guide.md) · [离线交互图集](demo/index.html)
 
